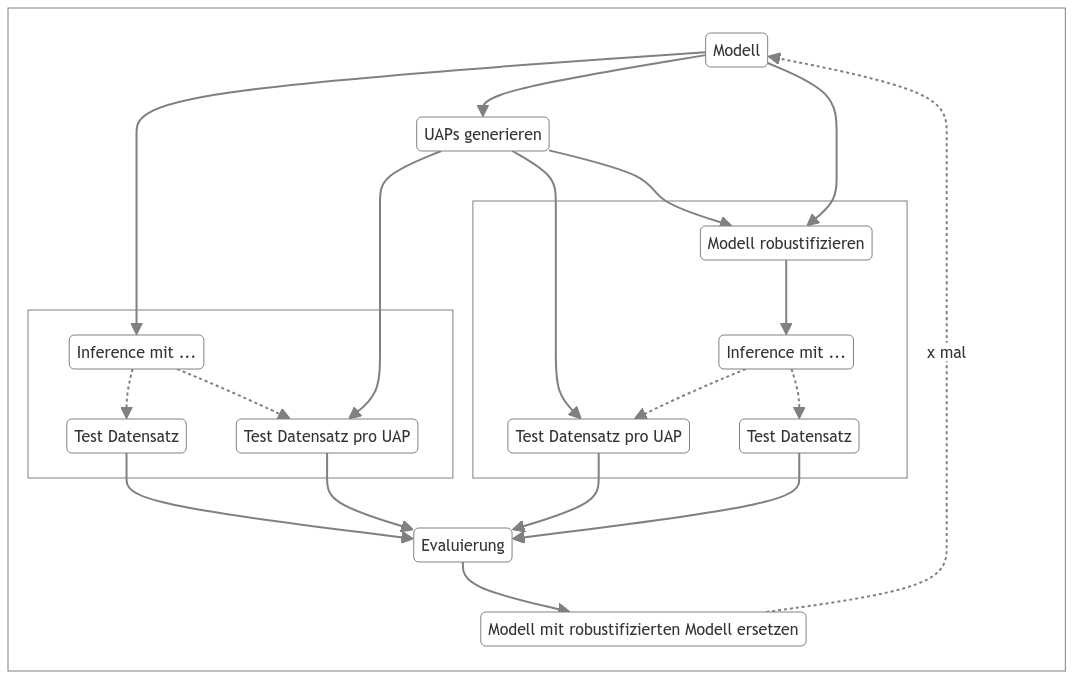
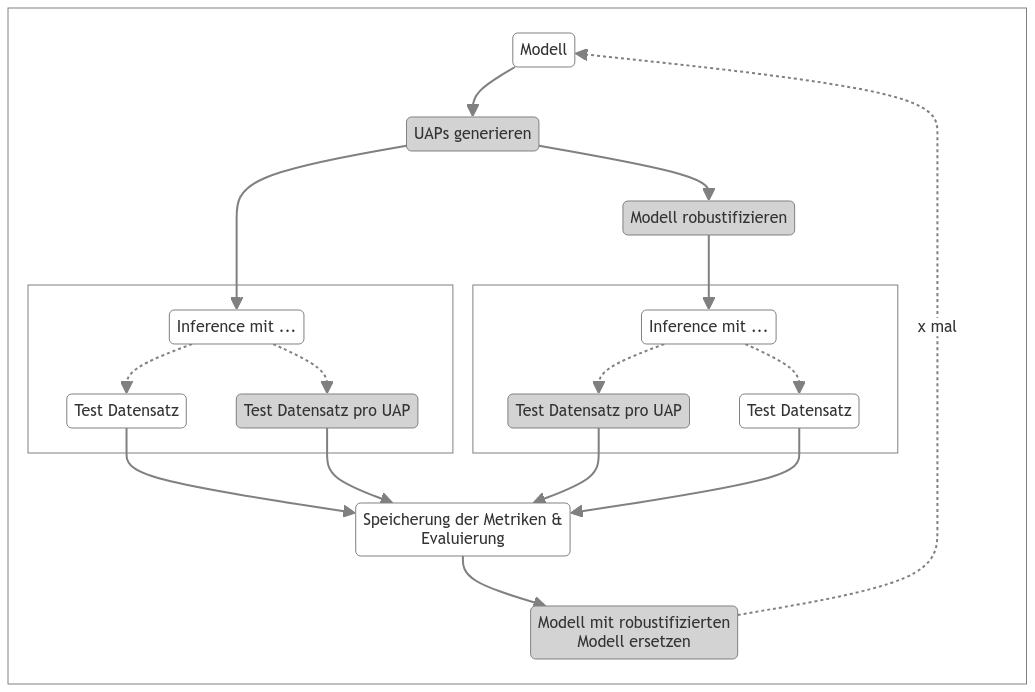
add modified mermaid pipeline

diff --git a/reports/robustifizierungs-pipeline.md b/reports/robustifizierungs-pipeline.md
@@ -13,28 +13,27 @@ graph TD
                 Inferencemit(Inference mit ...)
             end
 
+            ModellRobustifizieren(Modell robustifizieren)
             subgraph robustifizierung[" "]
-                ModellRobustifizieren(Modell robustifizieren)
                 Inferencemit2(Inference mit ...)
                 Testdata2(Test Datensatz)
                 TestdatamitUAP2(Test Datensatz pro UAP)
             end
 
-            Evaluierung(Evaluierung)
-            Modelersetzen(Modell mit robustifizierten Modell ersetzen)
+            Evaluierung(Speicherung der Metriken & 
+            Evaluierung)
+            Modelersetzen(Modell mit robustifizierten 
+            Modell ersetzen)
     end
 
 
-ModellTrained --> Inferencemit
 ModellTrained --> UAP
 UAP --> ModellRobustifizieren
-ModellTrained --> ModellRobustifizieren
 
 Inferencemit -.-> Testdata
 Inferencemit -.-> TestdatamitUAP
 
-UAP --> TestdatamitUAP
-UAP --> TestdatamitUAP2
+UAP --> Inferencemit
 
 ModellRobustifizieren --> Inferencemit2
 
@@ -50,6 +49,8 @@ Testdata2 --> Evaluierung
 Evaluierung --> Modelersetzen
 Modelersetzen -.-> |x mal| ModellTrained
 
-
-
-
+style ModellRobustifizieren fill:#D3D3D3
+style UAP fill:#D3D3D3
+style TestdatamitUAP fill:#D3D3D3
+style TestdatamitUAP2 fill:#D3D3D3
+style Modelersetzen fill:#D3D3D3
